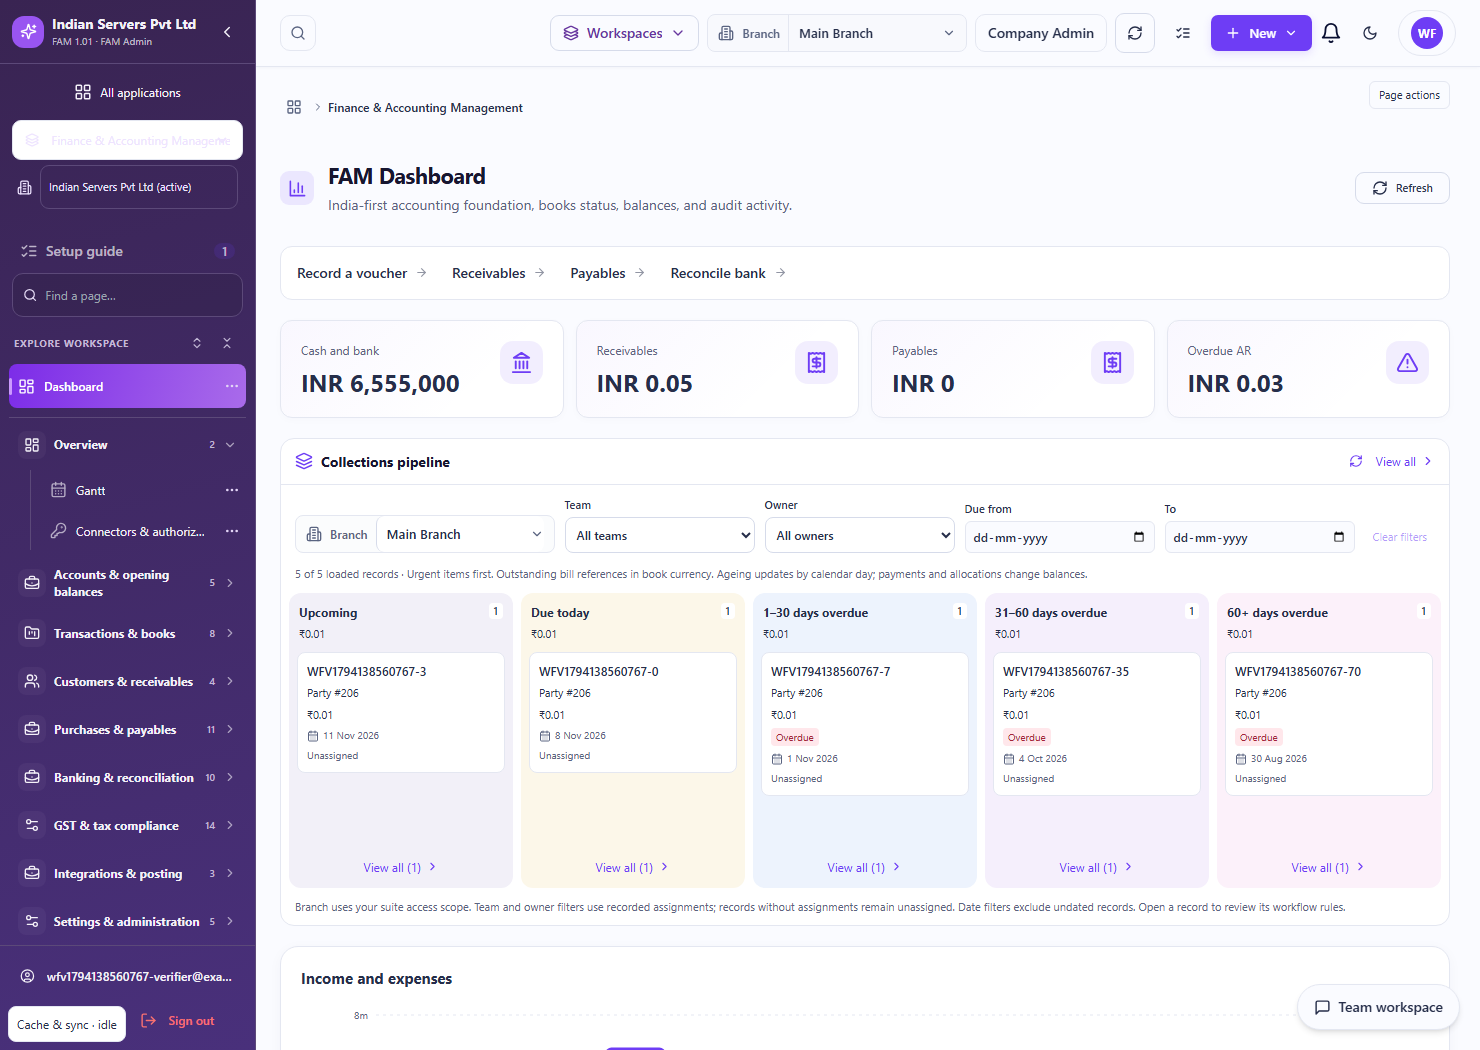
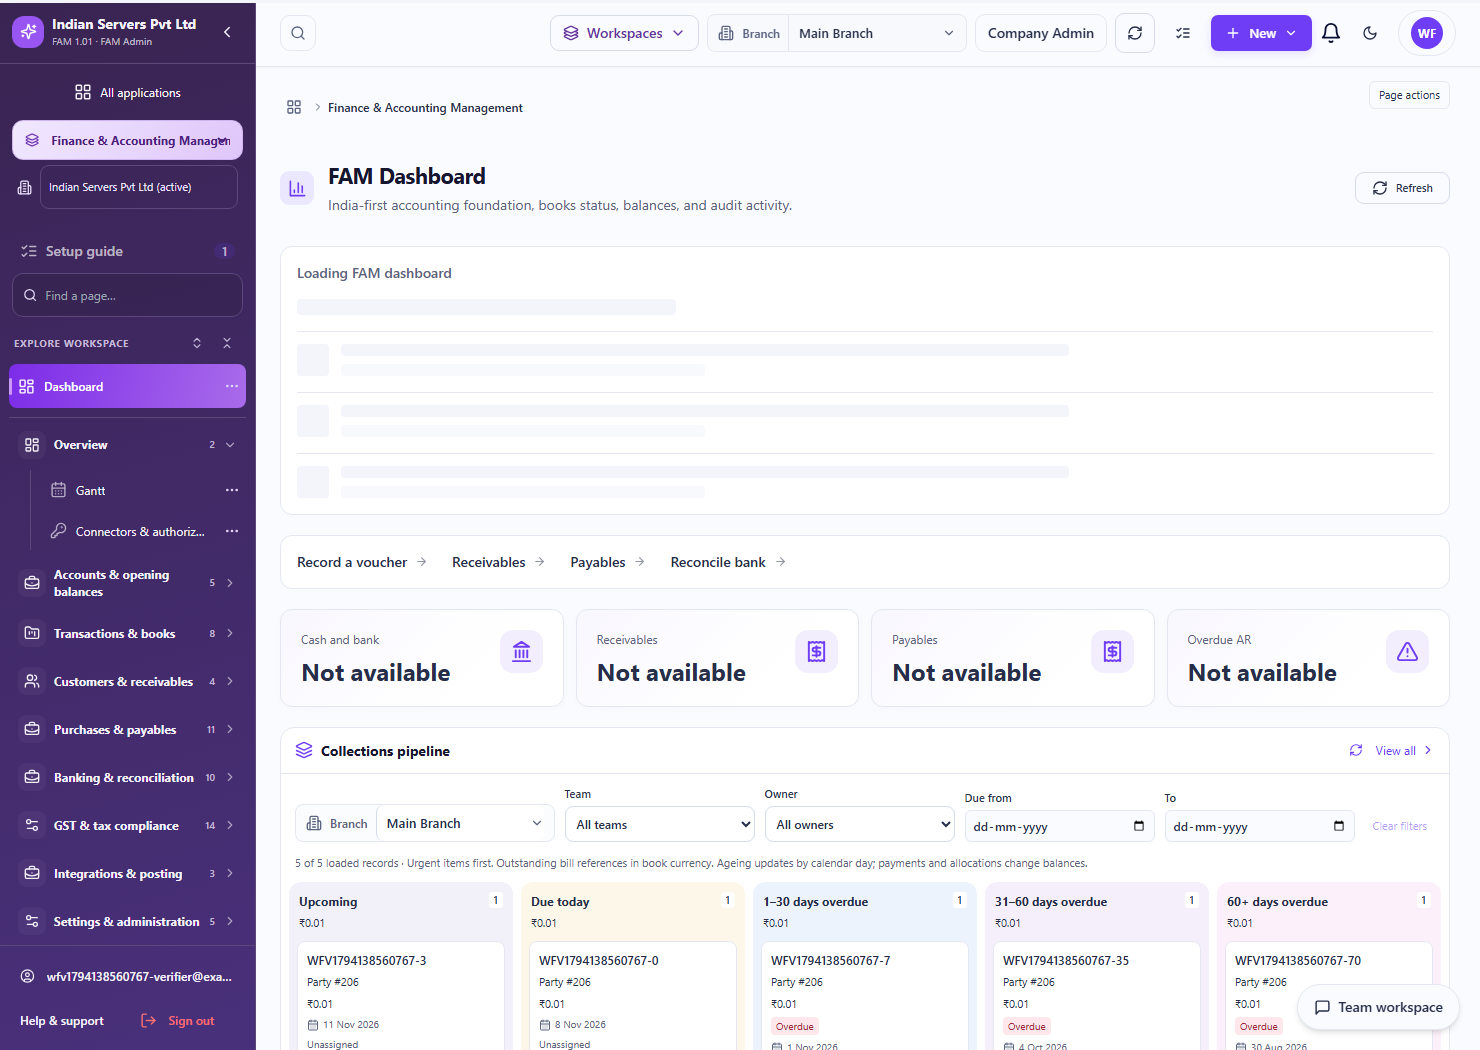
Include concurrent launcher and mobile updates

diff --git a/frontend/src/pages/ModuleDashboardPage.tsx b/frontend/src/pages/ModuleDashboardPage.tsx
@@ -1,3 +1,4 @@
+import { useFavoriteSync } from "@/hooks/use-favorite-sync";
 import { accessQueryOptions } from "@/features/access/access-query";
 import PremiumLauncher from "@/components/suite/PremiumLauncher";
 import CompanySampleData from "@/shared/data-transfer/CompanySampleData";
@@ -29,6 +30,7 @@ export default function ModuleDashboardPage() {
   );
   const updatePreferences = useSuitePreferences((state) => state.update);
   const notifications = useNotificationSummary();
+  const favoriteSync = useFavoriteSync(scope, !!(isAuthenticated && user?.access));
   const access = useQuery({
     ...accessQueryOptions(),
     enabled: isHydrated && isAuthenticated && !!user,
@@ -66,18 +68,24 @@ export default function ModuleDashboardPage() {
   return <PremiumLauncher applications={ready ? allowed : []} authenticated
     company={user?.access?.companyName || branding.data?.company_name || "Your workspace"}
     favorites={preferences.favorites} unread={notifications.byModule}
+    loading={!ready && !access.isError}
+    workspaceCount={new Set(user?.access?.organizations?.map(org => org.id) || user?.access?.memberships || []).size}
+    query={preferences.applicationSearch || ""} onQuery={applicationSearch => updatePreferences(scope, { applicationSearch })}
+    favoritesOnly={preferences.favoritesOnly || false} onFavoritesOnly={favoritesOnly => updatePreferences(scope, { favoritesOnly })}
+    onReorder={favorites => updatePreferences(scope, { favorites, favoritesDirty: true })}
     compact={preferences.compact} onCompact={value => updatePreferences(scope, { compact: value })}
-    onFavorite={key => updatePreferences(scope, { favorites: preferences.favorites.includes(key)
+    onFavorite={key => updatePreferences(scope, { favoritesDirty: true, favorites: preferences.favorites.includes(key)
       ? preferences.favorites.filter(value => value !== key) : [...preferences.favorites, key] })}>
+    {favoriteSync.error && <p className="launcher-notice" role="status">Favorites are saved on this browser. Sync is unavailable. <button onClick={favoriteSync.retry}>Retry sync</button></p>}
     {location.state?.notice && <p className="launcher-notice" role="status">{location.state.notice}</p>}
     {!ready && <div className="launcher-notice" role={access.isError ? "alert" : "status"}>
       {access.isError ? <><p>We couldn't load your applications.</p><button onClick={() => void access.refetch()}>Try again</button></> : "Loading your authorized applications…"}
     </div>}
     {ready && !allowed.length && <p className="launcher-notice">No applications assigned yet. Contact your company administrator to request access.</p>}
-    {ready && recent.length > 0 && <details className="launcher-recents"><summary>Continue working</summary><div>
-      {recent.map(path => <Link key={path} to={path}>{suitePageLabel(path)}</Link>)}
-      <button onClick={() => updatePreferences(scope, { recent: [] })}>Clear recent pages</button>
-    </div></details>}
+    {ready && recent.length > 0 && <section className="launcher-recents" aria-label="Continue working"><h2>Continue working</h2><div>
+      {recent.map(path => <Link key={path} to={path}>{suitePageLabel(path)}{preferences.recentVisitedAt?.[path] && <time dateTime={preferences.recentVisitedAt[path]}>{new Date(preferences.recentVisitedAt[path]).toLocaleString()}</time>}</Link>)}
+      <button onClick={() => updatePreferences(scope, { recent: [], recentVisitedAt: {} })}>Clear recent pages</button>
+    </div></section>}
   <CompanySampleData/>
   </PremiumLauncher>;
 }

diff --git a/frontend/src/components/mobile/MobileTools.tsx b/frontend/src/components/mobile/MobileTools.tsx
@@ -1,12 +1,25 @@
 import BranchSwitcher from "@/components/suite/BranchSwitcher";
-import { Link } from "react-router-dom";
-import { useState } from "react";
-import { ArrowUp, MoreHorizontal, Sparkles } from "lucide-react";
+import ModuleSwitcher from "@/components/layout/ModuleSwitcher";
+import { Link, useLocation, useNavigate } from "react-router-dom";
+import { useEffect, useState } from "react";
+import { ArrowUp, LayoutGrid, MoreHorizontal, Sparkles } from "lucide-react";
 import { MobileSheet } from "./MobilePrimitives";
 import { useMobile } from "./useMobile";
-import { useLocation, useNavigate } from "react-router-dom";
+import "./mobile-tools.css";
 export default function MobileTools() {
- const mobile=useMobile(), [open,setOpen]=useState(false); const navigate=useNavigate(), location=useLocation();
- if(!mobile||!/^\/(crm|pms|srm|hrms)(\/|$)/.test(location.pathname))return null;
- return <><button type="button" className="mobile-tools-trigger" aria-label="Workspace tools" onClick={()=>setOpen(true)}><MoreHorizontal size={22}/></button><MobileSheet title="Workspace tools" open={open} onClose={()=>setOpen(false)}><BranchSwitcher /><Link className="mobile-filter-trigger" to="/settings" onClick={()=>setOpen(false)}>Settings & preferences</Link><button type="button" className="mobile-primary-action" onClick={()=>{setOpen(false);navigate(`/ai-agents/operator?module=${location.pathname.split('/')[1].toUpperCase()}`);}}><Sparkles size={18}/>AI assistant</button><button type="button" className="mobile-filter-trigger" onClick={()=>{setOpen(false);(document.querySelector('#suite-main,.mobile-dock-tasks')||document.scrollingElement)?.scrollTo({top:0,behavior:'smooth'});}}><ArrowUp size={18}/>Back to top</button></MobileSheet></>;
+  const mobile = useMobile(), phone = useMobile(480), [open, setOpen] = useState(false);
+  const navigate = useNavigate(), location = useLocation();
+  const existingModule = /^\/(crm|pms|srm|hrms)(\/|$)/.test(location.pathname);
+  useEffect(() => { setOpen(false); }, [location.key, mobile, phone]);
+  if (!mobile || (!existingModule && !phone)) return null;
+  return <>
+    <button type="button" className="mobile-tools-trigger suite-mobile-tools-trigger" aria-label="Workspace tools" aria-haspopup="dialog" aria-expanded={open} onClick={() => setOpen(true)}><MoreHorizontal size={22}/></button>
+    <MobileSheet title="Workspace tools" open={open} onClose={() => setOpen(false)}>
+      <div className="suite-mobile-tools-fields"><ModuleSwitcher/><BranchSwitcher/></div>
+      <Link className="mobile-filter-trigger" to="/dashboard" onClick={() => setOpen(false)}><LayoutGrid size={18}/>All applications</Link>
+      <Link className="mobile-filter-trigger" to="/settings" onClick={() => setOpen(false)}>Settings & preferences</Link>
+      <button type="button" className="mobile-primary-action" onClick={() => {setOpen(false);navigate(`/ai-agents/operator?module=${location.pathname.split('/')[1].toUpperCase()}`);}}><Sparkles size={18}/>AI assistant</button>
+      <button type="button" className="mobile-filter-trigger" onClick={() => {setOpen(false);(document.querySelector('#suite-main,.mobile-dock-tasks') || document.scrollingElement)?.scrollTo({top:0,behavior:window.matchMedia('(prefers-reduced-motion: reduce)').matches ? 'auto' : 'smooth'});}}><ArrowUp size={18}/>Back to top</button>
+    </MobileSheet>
+  </>;
 }

diff --git a/frontend/src/components/mobile/mobile-tools.css b/frontend/src/components/mobile/mobile-tools.css
@@ -1,0 +1,11 @@
+@media(max-width:480px){
+ .suite-mobile-tools-trigger{display:flex;align-items:center;justify-content:center;position:fixed;right:12px;bottom:calc(16px + env(safe-area-inset-bottom));width:44px;height:44px;border:1px solid hsl(var(--border));border-radius:50%;background:hsl(var(--background));color:hsl(var(--foreground));z-index:30;box-shadow:0 4px 16px rgb(25 15 45 / .08)}
+ body:has(.mobile-module-dock) .suite-mobile-tools-trigger{bottom:calc(105px + env(safe-area-inset-bottom))}
+ .mobile-keyboard-open .suite-mobile-tools-trigger{display:none}
+ .suite-mobile-tools-fields{display:grid;gap:10px;min-width:0}
+ .suite-mobile-tools-fields :is(label,div){min-width:0;max-width:100%}
+ .suite-mobile-tools-fields :is(select,button){min-height:44px;font-size:16px;max-width:100%}
+ .suite-mobile-tools-fields .kf-module-switch{display:flex;align-items:center;gap:8px}
+ .suite-mobile-tools-fields .kf-module-switch select{width:100%;min-width:0}
+ .mobile-experience-sheet:has(.suite-mobile-tools-fields){max-height:calc(90dvh - var(--mobile-keyboard-inset,0px));overflow-y:auto;overscroll-behavior:contain;padding-bottom:calc(16px + env(safe-area-inset-bottom))}
+}

diff --git a/frontend/src/store/suitePreferences.ts b/frontend/src/store/suitePreferences.ts
@@ -7,6 +7,10 @@ export type SuitePreferences = {
   favorites: string[];
   recent: string[];
   compact: boolean;
+  favoritesOnly?: boolean;
+  applicationSearch?: string;
+  recentVisitedAt?: Record<string, string>;
+  favoritesDirty?: boolean;
   groups: Record<string, boolean>;
 };
 const defaults: SuitePreferences = {
@@ -38,12 +42,13 @@ export const useSuitePreferences = create<{
         if (!safe) return;
         set((state) => {
           const current = state.contexts[scope] || defaults;
-          if (current.recent[0] === safe) return state;
+
           return {
             contexts: {
               ...state.contexts,
               [scope]: {
                 ...current,
+                recentVisitedAt: { ...current.recentVisitedAt, [safe]: new Date().toISOString() },
                 recent: [
                   safe,
                   ...current.recent.filter((p) => p !== safe),

diff --git a/frontend/src/components/mobile/useMobile.ts b/frontend/src/components/mobile/useMobile.ts
@@ -1,6 +1,12 @@
 import { useEffect, useState } from "react";
-export function useMobile() {
-  const [mobile, setMobile] = useState(() => window.matchMedia("(max-width: 767px)").matches);
-  useEffect(() => { const media = window.matchMedia("(max-width: 767px)"); const update = () => setMobile(media.matches); media.addEventListener("change", update); return () => media.removeEventListener("change", update); }, []);
+export function useMobile(maxWidth = 767) {
+  const [mobile, setMobile] = useState(() => window.matchMedia(`(max-width: ${maxWidth}px)`).matches);
+  useEffect(() => {
+    const media = window.matchMedia(`(max-width: ${maxWidth}px)`);
+    const update = () => setMobile(media.matches);
+    update();
+    media.addEventListener("change", update);
+    return () => media.removeEventListener("change", update);
+  }, [maxWidth]);
   return mobile;
 }

diff --git a/frontend/src/components/layout/MobileModuleDock.tsx b/frontend/src/components/layout/MobileModuleDock.tsx
@@ -130,7 +130,8 @@ export default function MobileModuleDock() {
 
   useEffect(() => { if (!mobile || !menus) return; const entry = menus.find(entry => entry.to === location.pathname); if (entry && !new URLSearchParams(location.search).has("new")) { try { sessionStorage.setItem(`${memoryKey}:${entry.to}`, location.pathname + location.search); } catch { /* Optional browser persistence. */ } } }, [mobile, menus, location.pathname, location.search, memoryKey]);
 
-  if (!mobile || !menus) return null;
+  if (!mobile) return null;
+  if (!menus) return <MobileTools/>;
 
   const matches = (to: string) => location.pathname === to.split("?")[0] || location.pathname.startsWith(to.split("?")[0] + "/");
 

diff --git a/backend/app/access/launcher_preferences.py b/backend/app/access/launcher_preferences.py
@@ -1,0 +1,50 @@
+"""Private, company-scoped launcher favorites shared across a user's devices."""
+from fastapi import APIRouter, Depends
+from pydantic import BaseModel, ConfigDict, Field, field_validator
+from sqlalchemy.orm import Session
+from app.core.deps import get_current_user, get_db
+from app.shared.models import ServicePolicy
+
+router = APIRouter(prefix="/launcher-preferences", tags=["Launcher preferences"])
+
+
+class Favorites(BaseModel):
+    model_config = ConfigDict(extra="forbid")
+    favorites: list[str] = Field(max_length=100)
+
+    @field_validator("favorites")
+    @classmethod
+    def validate_keys(cls, keys):
+        import re
+        if any(not re.fullmatch(r"[a-z][a-z0-9_]{0,79}", key) for key in keys):
+            raise ValueError("Invalid application key")
+        return list(dict.fromkeys(keys))
+
+
+def own_preferences(db, actor):
+    return db.query(ServicePolicy).filter_by(
+        scope_key=f"launcher:{actor.organization_id}:{actor.id}",
+        organization_id=actor.organization_id, kind="launcher_preferences",
+        updated_by=actor.id,
+    ).first()
+
+
+@router.get("")
+def get_preferences(db: Session = Depends(get_db), actor=Depends(get_current_user)):
+    row = own_preferences(db, actor)
+    return {"favorites": row.values_json.get("favorites", []) if row else None}
+
+
+@router.put("")
+def save_preferences(data: Favorites, db: Session = Depends(get_db), actor=Depends(get_current_user)):
+    row = own_preferences(db, actor)
+    if row is None:
+        row = ServicePolicy(scope_key=f"launcher:{actor.organization_id}:{actor.id}",
+            organization_id=actor.organization_id, kind="launcher_preferences",
+            module_key="*", updated_by=actor.id, values_json={})
+        db.add(row)
+    else:
+        row.version += 1
+    row.values_json = data.model_dump()
+    db.commit()
+    return row.values_json

diff --git a/backend/app/access/api.py b/backend/app/access/api.py
@@ -35,6 +35,8 @@ from app.access.setup import router as setup_router
 router.include_router(setup_router)
 from app.access.homepage_banner import router as homepage_banner_router
 router.include_router(homepage_banner_router)
+from app.access.launcher_preferences import router as launcher_preferences_router
+router.include_router(launcher_preferences_router)
 
 
 class Strict(BaseModel):
